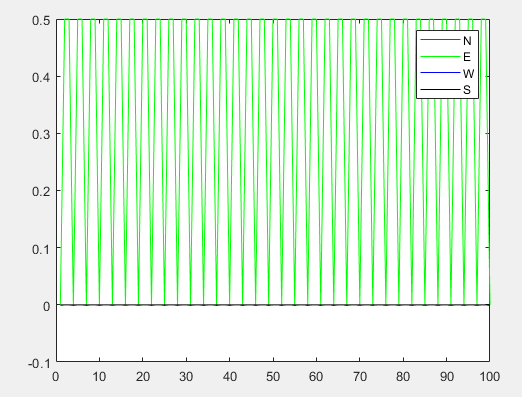
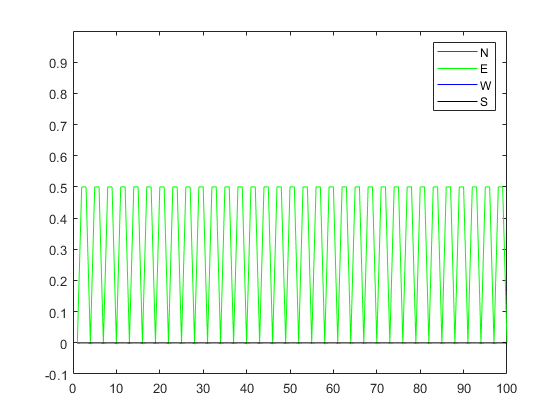
added photos, started rotation work

Changed region(s): [[0.0613, 0.0302, 0.9808, 0.9673]]

diff --git a/sandboxTS.m b/sandboxTS.m
@@ -2,46 +2,55 @@ clear;
 close all; 
 clc;
 
-% joy = vrjoystick(1); % initialize joystick
+joy = vrjoystick(1); % initialize joystick
 % 
-% while(1)
-% joy_data = read(joy);
+while(1)
+joy_data = read(joy);
 % 
-% lh = joy_data(1);
-% lv = joy_data(2);
-% bp = joy_data(3);
-% rh = joy_data(4);
-% rv = joy_data(5);
+lh = joy_data(1);
+lv = joy_data(2);
+rtlt = joy_data(3);
+rh = joy_data(4);
+rv = joy_data(5);
 % 
-% a = button(joy, 1);
-% b = button(joy, 2);
-% x = button(joy, 3); 
-% y = button(joy, 4); 
-% lb = button(joy, 5); 
-% rb = button(joy, 6); 
-% start = button(joy, 7); 
-% select = button(joy, 8); 
+a = button(joy, 1);
+b = button(joy, 2);
+x = button(joy, 3); 
+y = button(joy, 4); 
+lb = button(joy, 5); 
+rb = button(joy, 6); 
+start = button(joy, 7); 
+select = button(joy, 8); 
+l3 = button(joy, 9); 
+r3 = button(joy, 10); 
+t3 = button(joy, 15); 
+t4 = button(joy, 16); 
+t5 = button(joy, 13); 
+t6 = button(joy, 14);
 % 
 % u = [lh lv bp rh rv ]
-% % buttons = [ a b x y lb rb start rt ]
-% end
+buttons = [ a b x y lb rb start rtlt ]
+% buttons = [ l3 r3 t3 t4 t5 t6]
+end
 
+%%
 tic
 startTime = toc; 
-pulsingPeriod = 0.15; 
+pulsingPeriod = 0.5; 
 pulsingFrequency = 1/pulsingPeriod; 
 pulseForwardRatio = 0.765; 
+% pulseForwardRatio = 0;
 for i = 1:100
     currentTime = toc; 
     duration = startTime - currentTime; 
     remainingTime = mod(duration, pulsingPeriod); 
     
     lh = 0; 
-    lv = 0; 
-    rh = 0.5; 
+    lv = -1; 
+    rh = 0; 
     rv = 0; 
     
-    rtlt = 0.9961; 
+    rtlt = 1; 
     
     if remainingTime < pulseForwardRatio*pulsingPeriod
         scale = 1;
@@ -67,9 +76,91 @@ plot(coil_currents(:,2), 'g')
 plot(coil_currents(:,3), 'b')
 plot(coil_currents(:,4), 'k')
 legend('N', 'E', 'W', 'S')
+% ylim([-0.1, 1])
 
 
+%% Rotating magnetic field about an axis 
+close all
+% Starting with 2d case, rotate around y axis in xz plane
+
+degChange = 5; % deg
+curr_theta = 0; % deg
+rotScale = 0.5; 
+
+figure(1)
+hold on 
+xlim([-2, 2])
+ylim([-2, 2])
+figure(2)
+hold on
+for i = 1:360/degChange
+    xComp = cosd(curr_theta);
+    zComp = sind(curr_theta);
+    curr_theta = curr_theta + degChange;
+    figure(1)
+    quiver(0, 0, xComp, zComp)
+    xlabel('x')
+    ylabel('z')
+%     pause(0.25)
+    xlim([-2, 2])
+    ylim([-2, 2])
+    north = 0; 
+    south = 0; 
+    top = rotScale*zComp;
+    bottom = -rotScale*zComp; 
+    east = rotScale*xComp; 
+    west = -rotScale*xComp; 
+    
+%     figure(2)
+%     plot(xComp, 'r*')
+%     plot(zComp, 'b*')
+%     
+    xzCurrents(i,:) = [top, bottom, east, west];
+end
+    
+figure
+plot(xzCurrents(:,1), 'r')
+hold on 
+plot(xzCurrents(:,2), 'g')
+plot(xzCurrents(:,3), 'b')
+plot(xzCurrents(:,4), 'k')
+legend('T', 'B', 'E', 'W')
+    
 %%
+
+needleVec = [pi/2; pi/2; pi/2]; 
+magVec = [-pi/2; pi/2; 0]; 
+desiredTheta = 5*(pi/180); 
+
+% Define twist skew symmetric matrix
+wHat = [0, -needleVec(3), needleVec(2); 
+        needleVec(3), 0, -needleVec(1);
+        -needleVec(2), needleVec(1), 0];
+
+% Take matrix exponential
+expZeta = expm(wHat*desiredTheta); 
+
+newVec = expZeta*magVec;
+
+figure
+quiver3(0, 0, 0, needleVec(1), needleVec(2), needleVec(3), 'r')
+hold on
+quiver3(0, 0, 0, magVec(1), magVec(2), magVec(3), 'b')
+quiver3(0, 0, 0, newVec(1), newVec(2), newVec(3), 'g')
+axis equal
+
+[currentCoilComp, newMagVec] = findRotMagCurrents(needleVec, magVec, 5);
+
+% (N,E,W,S,T,B)
+figure
+quiver3(0, 0, 0, needleVec(1), needleVec(2), needleVec(3), 'r')
+hold on
+quiver3(0, 0, 0, magVec(1), magVec(2), magVec(3), 'b')
+quiver3(0, 0, 0, newMagVec(1), newMagVec(2), newMagVec(3), 'b')
+quiver3(0, 0, 0, currentCoilComp(2), currentCoilComp(1), currentCoilComp(5), 'k')
+quiver3(0, 0, 0, currentCoilComp(3), currentCoilComp(4), currentCoilComp(6), 'g')
+
+
 
 
     

diff --git a/MagneticSystemBackbone.m b/MagneticSystemBackbone.m
@@ -122,8 +122,8 @@ num = 1;
 cVec = zeros(1000, 1); 
 
 %handles.closedWindow == 0
-figure(5); 
-hold on 
+% figure(5); 
+% hold on 
 hammer_start_time = 0; 
 while (~FS.Stop()&&~handles.data.goalReached)
    t_sim = toc;
@@ -168,6 +168,18 @@ while (~FS.Stop()&&~handles.data.goalReached)
         
    else % joystick controller on
        [u] = JoystickActuation(handles.joy)
+       
+       % Rotation Component
+       if u(6) == 1
+           % Localize needle 
+           theta = 5; 
+           findRotMagCurrents(needleVec, magVec, theta); 
+       elseif u(7) == 1
+           theta = -5; 
+           findRotMagCurrents(needleVec, magVec, theta); 
+       end
+       
+       % Hammering Component
        if (hammer_bool == false && abs(u(5)) > 0.5) % starting to hammer
            hammer_start_time = toc; 
            hammer_bool = true; 
@@ -181,12 +193,14 @@ while (~FS.Stop()&&~handles.data.goalReached)
    current_time = toc
    coil_currents = MapInputtoCoilCurrents(u, settings, hammer_start_time, hammer_bool); 
    ArduinoCommunication(coil_currents, handles.arduino);
-   figure(5)
-   plot(current_time, coil_currents(1), 'r*')
-   plot(current_time,coil_currents(2), 'g*')
-   plot(current_time,coil_currents(3), 'b*')
-   plot(current_time,coil_currents(4), 'k*')
-   legend('N', 'E', 'W', 'S')
+%    preplot = toc 
+%    figure(5)
+%    plot(current_time, coil_currents(1), 'r*')
+%    plot(current_time,coil_currents(2), 'g*')
+%    plot(current_time,coil_currents(3), 'b*')
+%    plot(current_time,coil_currents(4), 'k*')
+%    legend('N', 'E', 'W', 'S')
+%    postplot = toc
 %    cVec(num) = coil_currents(1);
 %    num = num+1;
    

diff --git a/MapInputtoCoilCurrents.m b/MapInputtoCoilCurrents.m
@@ -14,11 +14,11 @@ else % Joystick control on
     lv = u(2);
     rh = u(3);
     rv = u(4); 
-    bp = u(5);
+    rtlt = u(5);
     
-    pulsing_period = 0.15; %seconds
+    pulsing_period = 1; %seconds
     pulsing_frequency = 1/pulsing_period;
-    pulse_forward_ratio = 0.765; %should be something between 0 and 1
+    pulse_forward_ratio = 0.5; %should be something between 0 and 1
         
     if (hammer_bool)% Joystick control with hammer
         
@@ -32,17 +32,17 @@ else % Joystick control on
             west_c = (max(0.0, -lh) + min(0.0, rh))*scale;
             east_c = (max(0.0, lh) + min(0.0, -rh))*scale;
             
-            coil_currents = [-north_c, -east_c, -west_c, -south_c];
+            coil_currents = [north_c, east_c, west_c, south_c];
         else
-            scale = 1*((bp-1)/2);
+            scale = 1*((rtlt-1)/2);
             north_c = (max(0.0, lv) + min(0.0, -rv))*scale;
             south_c = (max(0.0, -lv) + min(0.0, rv))*scale;
             west_c = (max(0.0, lh) + min(0.0, -rh))*scale;
             east_c = (max(0.0, -lh) + min(0.0, rh))*scale;
         
-           coil_currents = [-north_c, -east_c, -west_c, -south_c];
+           coil_currents = [north_c, east_c, west_c, south_c];
         end
-        
+        pause(0.05); 
     else
     % change this scale to modify the coil power
     scale = 1;

diff --git a/findRotMagCurrents.m b/findRotMagCurrents.m
@@ -1,0 +1,42 @@
+function [coilCurrentComp, newMagVec ] = findRotMagCurrents (needleVec, magVec, theta)
+%findRotMagCurrents takes in the current orientation of the steerable
+%hammer needle and the desired rotation amount and computes the necessary
+%currents for all six coils 
+%
+% Inputs
+% needleVec       - 3x1 vector with x, y, and z components of needle
+%                   orientation
+% magVec          - 3x1 vector with x, y, and z components of magnet
+%                   orientation
+% theta           - amount of rotation in degrees
+%
+% Outputs       
+% coilCurrentComp - 6x1 vector with necessary coil current multipliers
+%                   between -1 and 1 (N,E,W,S,T,B)
+
+% Convert desired theta to radians 
+theta = theta*(pi/180); 
+
+% Define twist skew symmetric matrix
+wHat = [0, -needleVec(3), needleVec(2); 
+        needleVec(3), 0, -needleVec(1);
+        -needleVec(2), needleVec(1), 0];
+
+% Take matrix exponential
+expZeta = expm(wHat*theta); 
+
+% Multiply magnet vector by transformation 
+newMagVec = expZeta*magVec; 
+
+% Create output
+north = newMagVec(2); 
+south = -newMagVec(2);
+east = newMagVec(1); 
+west = -newMagVec(1); 
+top = newMagVec(3); 
+bottom = -newMagVec(3); 
+
+coilCurrentComp = [north, east , west, south, top, bottom];
+
+end
+

diff --git a/JoystickActuation.m b/JoystickActuation.m
@@ -4,10 +4,13 @@ function [u] = JoystickActuation(joy)
  
     lh = joy_data(1);
     lv = joy_data(2);
-    bp = joy_data(3);
+    rtlt = joy_data(3);
     rh = joy_data(4);
     rv = joy_data(5);
     
-    u = [lh lv rh rv bp];
+    lb = button(joy, 5);
+    rb = button(joy, 6);
+    
+    u = [lh lv rh rv rtlt rb lb];
 %     u = [lh lv rh rv];
 end
